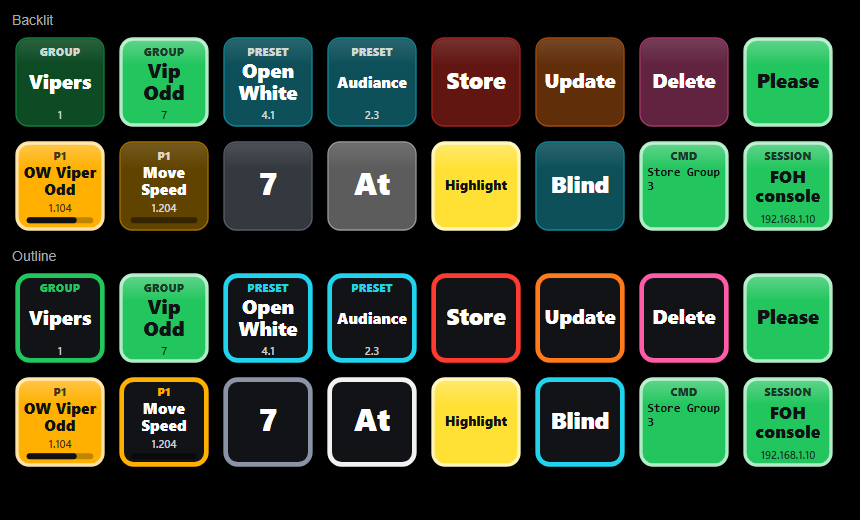
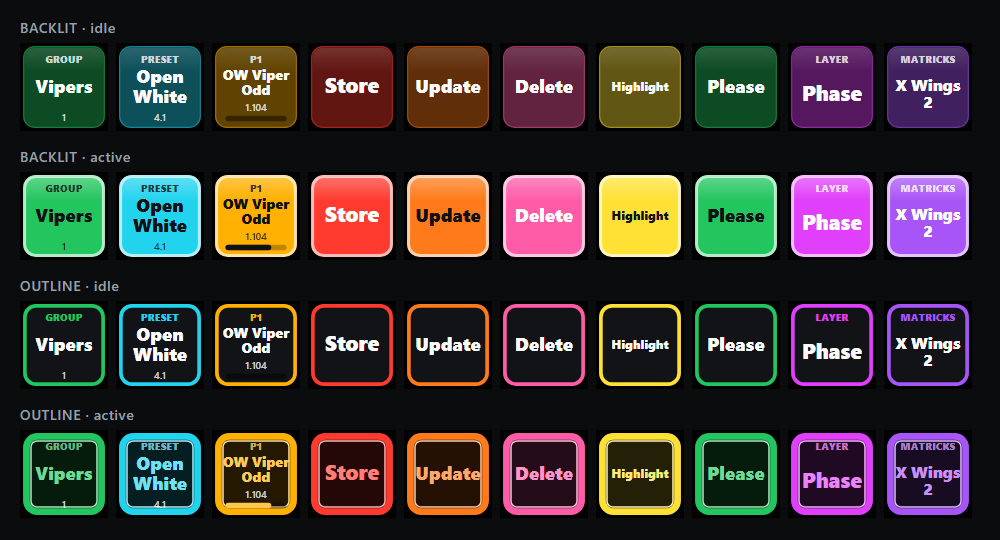
Outline style: active keys keep the outline look; README preview from the real renderer
Active outline keys were fully filled, which made them look like backlit
keys. They now get a heavier frame, a bright inner ring and the label in
the key colour. The README image is rendered by tools/make-preview.mjs
(npm run preview) and shows both styles idle and active.

diff --git a/src/core/render.ts b/src/core/render.ts
@@ -64,20 +64,30 @@ export function renderKey(v: KeyVisual): string {
 		stroke = v.active ? tint(base, 0.65) : shade(base, Math.min(1, idle + 0.25));
 		strokeWidth = v.active ? 5 : 2;
 	} else {
-		fill = v.active ? base : "#111317";
-		stroke = v.active ? tint(base, 0.65) : base;
-		strokeWidth = v.active ? 5 : 7;
+		// Active outline keys stay outline keys: a heavier frame with a bright inner ring and the
+		// label in the key colour, over a barely tinted dark face. Never a fill (that is what the
+		// backlit style is for, and it would look like an idle backlit key).
+		fill = v.active ? shade(base, 0.14) : "#111317";
+		stroke = base;
+		strokeWidth = v.active ? 11 : 6;
 	}
-	const fg = textOn(fill);
-	const sub = fg === "#ffffff" ? "#ffffff" : "#101114";
+	const outlineActive = style === "outline" && v.active === true;
+	// Active outline keys print their label in the key colour; everything else picks black / white.
+	const fg = outlineActive ? tint(base, 0.35) : textOn(fill);
+	const sub = outlineActive ? "#ffffff" : fg === "#ffffff" ? "#ffffff" : "#101114";
 
 	parts.push(`<defs><linearGradient id="gloss" x1="0" y1="0" x2="0" y2="1"><stop offset="0" stop-color="#fff" stop-opacity="${v.active ? 0.28 : 0.12}"/><stop offset="0.55" stop-color="#fff" stop-opacity="0"/></linearGradient></defs>`);
 	parts.push(`<rect width="${SIZE}" height="${SIZE}" fill="#000"/>`);
 	parts.push(
 		`<rect x="${INSET + strokeWidth / 2}" y="${INSET + strokeWidth / 2}" width="${size - strokeWidth}" height="${size - strokeWidth}" rx="${RADIUS}" fill="${fill}" stroke="${stroke}" stroke-width="${strokeWidth}"/>`,
 	);
-	if (style === "backlit" || v.active) {
+	if (style === "backlit") {
 		parts.push(`<rect x="${INSET + 3}" y="${INSET + 3}" width="${size - 6}" height="${(size - 6) * 0.55}" rx="${RADIUS - 3}" fill="url(#gloss)"/>`);
+	}
+	if (outlineActive) {
+		// Bright inner ring: reads as "lit" without filling the key.
+		const r = INSET + strokeWidth + 2;
+		parts.push(`<rect x="${r}" y="${r}" width="${SIZE - 2 * r}" height="${SIZE - 2 * r}" rx="${RADIUS - 8}" fill="none" stroke="${tint(base, 0.6)}" stroke-width="2.5"/>`);
 	}
 
 	const hasBar = typeof v.bar === "number";
@@ -86,7 +96,7 @@ export function renderKey(v: KeyVisual): string {
 
 	if (v.top) {
 		// Outline style: the category text sits in the frame colour so the key reads as a group.
-		const topColor = style === "outline" && !v.active ? base : sub;
+		const topColor = style === "outline" ? (v.active ? tint(base, 0.45) : base) : sub;
 		parts.push(textLine(v.top.toUpperCase(), SIZE / 2, INSET + 28, 17, topColor, "middle", 800, style === "outline" && !v.active ? 1 : 0.78));
 		top = INSET + 36;
 	}
@@ -95,7 +105,7 @@ export function renderKey(v: KeyVisual): string {
 		const w = size - 34;
 		const y = SIZE - INSET - 20;
 		const track = fg === "#ffffff" ? "rgba(0,0,0,0.45)" : "rgba(0,0,0,0.25)";
-		const barFill = style === "outline" && !v.active ? base : sub;
+		const barFill = style === "outline" ? (v.active ? tint(base, 0.3) : base) : sub;
 		parts.push(`<rect x="${INSET + 17}" y="${y}" width="${w}" height="9" rx="4.5" fill="${track}"/>`);
 		if (pct > 0) parts.push(`<rect x="${INSET + 17}" y="${y}" width="${Math.max(9, (w * pct) / 100)}" height="9" rx="4.5" fill="${barFill}"/>`);
 		bottom = y - 6;

diff --git a/docs/keys-and-profiles.md b/docs/keys-and-profiles.md
@@ -1,13 +1,13 @@
 # Key colours, styles and ready-made profiles
 
-![Backlit and outline key styles](images/keys.png)
+![The same keys in backlit and outline style, idle and active](images/keys.png)
 
 ## Designed to be found in a hurry
 
 - **Two styles.**
   - *Backlit* (default): the whole key is filled with its colour, dimmed when idle and at full brightness when active.
-  - *Outline*: a dark key with a thick coloured frame.
-- **Active keys stand out.** Running executors, the selected bank, latched modes (Highlight, Blind…), the active layer and set MAtricks are drawn at full brightness with a light border.
+  - *Outline*: a dark key with a coloured frame. When active, the frame gets heavier, a bright inner ring appears, and the label turns the key's colour. The key is never filled.
+- **Active keys stand out.** Running executors, the selected bank, latched modes (Highlight, Blind…), the active layer and set MAtricks light up: full brightness in backlit style, a heavy glowing frame in outline style.
 - **Automatic contrast.** Text is black on light colours (yellow, lime, white…) and white on dark ones.
 - **Labels auto-fit.** Each label gets the largest size that fits without breaking words.
 - **Colour by function.** Defaults are chosen so keys are easy to tell apart:
@@ -44,6 +44,6 @@ The [release](https://github.com/Hano009/open-gma3-deck/releases/latest) include
 | Encoders (+)<br>`open-gma3-deck-encoders-plus` | Stream Deck + | 6 bank keys, layer, resolution, 4 attribute encoders |
 | Programmer (+ XL)<br>`open-gma3-deck-programmer-plus-xl` | Stream Deck + XL | The programmer layout on 9 × 4 keys, with layer and resolution, and 6 attribute encoders |
 
-After importing, change any key in the Stream Deck app as usual. To rebuild the profiles after changing the layouts in `tools/make-profiles.mjs`, run `npm run profiles`.
+After importing, change any key in the Stream Deck app as usual. To rebuild the profiles after changing the layouts in `tools/make-profiles.mjs`, run `npm run profiles`. The image at the top of this page comes from the real key renderer; run `npm run preview` to update it.
 
 > The Stream Deck + XL profile uses the device model code `20GBX9901`. If the Stream Deck app offers it for the wrong device, please [open an issue](https://github.com/Hano009/open-gma3-deck/issues).

diff --git a/docs/development.md b/docs/development.md
@@ -19,6 +19,7 @@ Requirements: Node.js 22.18+ (24 recommended) and the Stream Deck app 7.1+.
 | `npm run osc-monitor` | Fake grandMA3: prints everything the plugin sends and echoes executor feedback |
 | `npm run validate` | Elgato manifest validation |
 | `npm run icons` | Regenerates all icons from `tools/make-icons.mjs` |
+| `npm run preview` | Renders `docs/images/keys.png` with the real key renderer (needs Chrome or Edge) |
 | `npm run profiles` | Regenerates the ready-made profiles from `tools/make-profiles.mjs` |
 | `npm run pack` | Builds `dist/org.open-gma3-deck.streamDeckPlugin` |
 

diff --git a/README.md b/README.md
@@ -17,7 +17,7 @@
 </p>
 
 <p align="center">
-  <img src="docs/images/keys.png" width="720" alt="Keys in backlit and outline style">
+  <img src="docs/images/keys.png" width="760" alt="The same keys in backlit and outline style, idle and active">
 </p>
 
 ## Why
